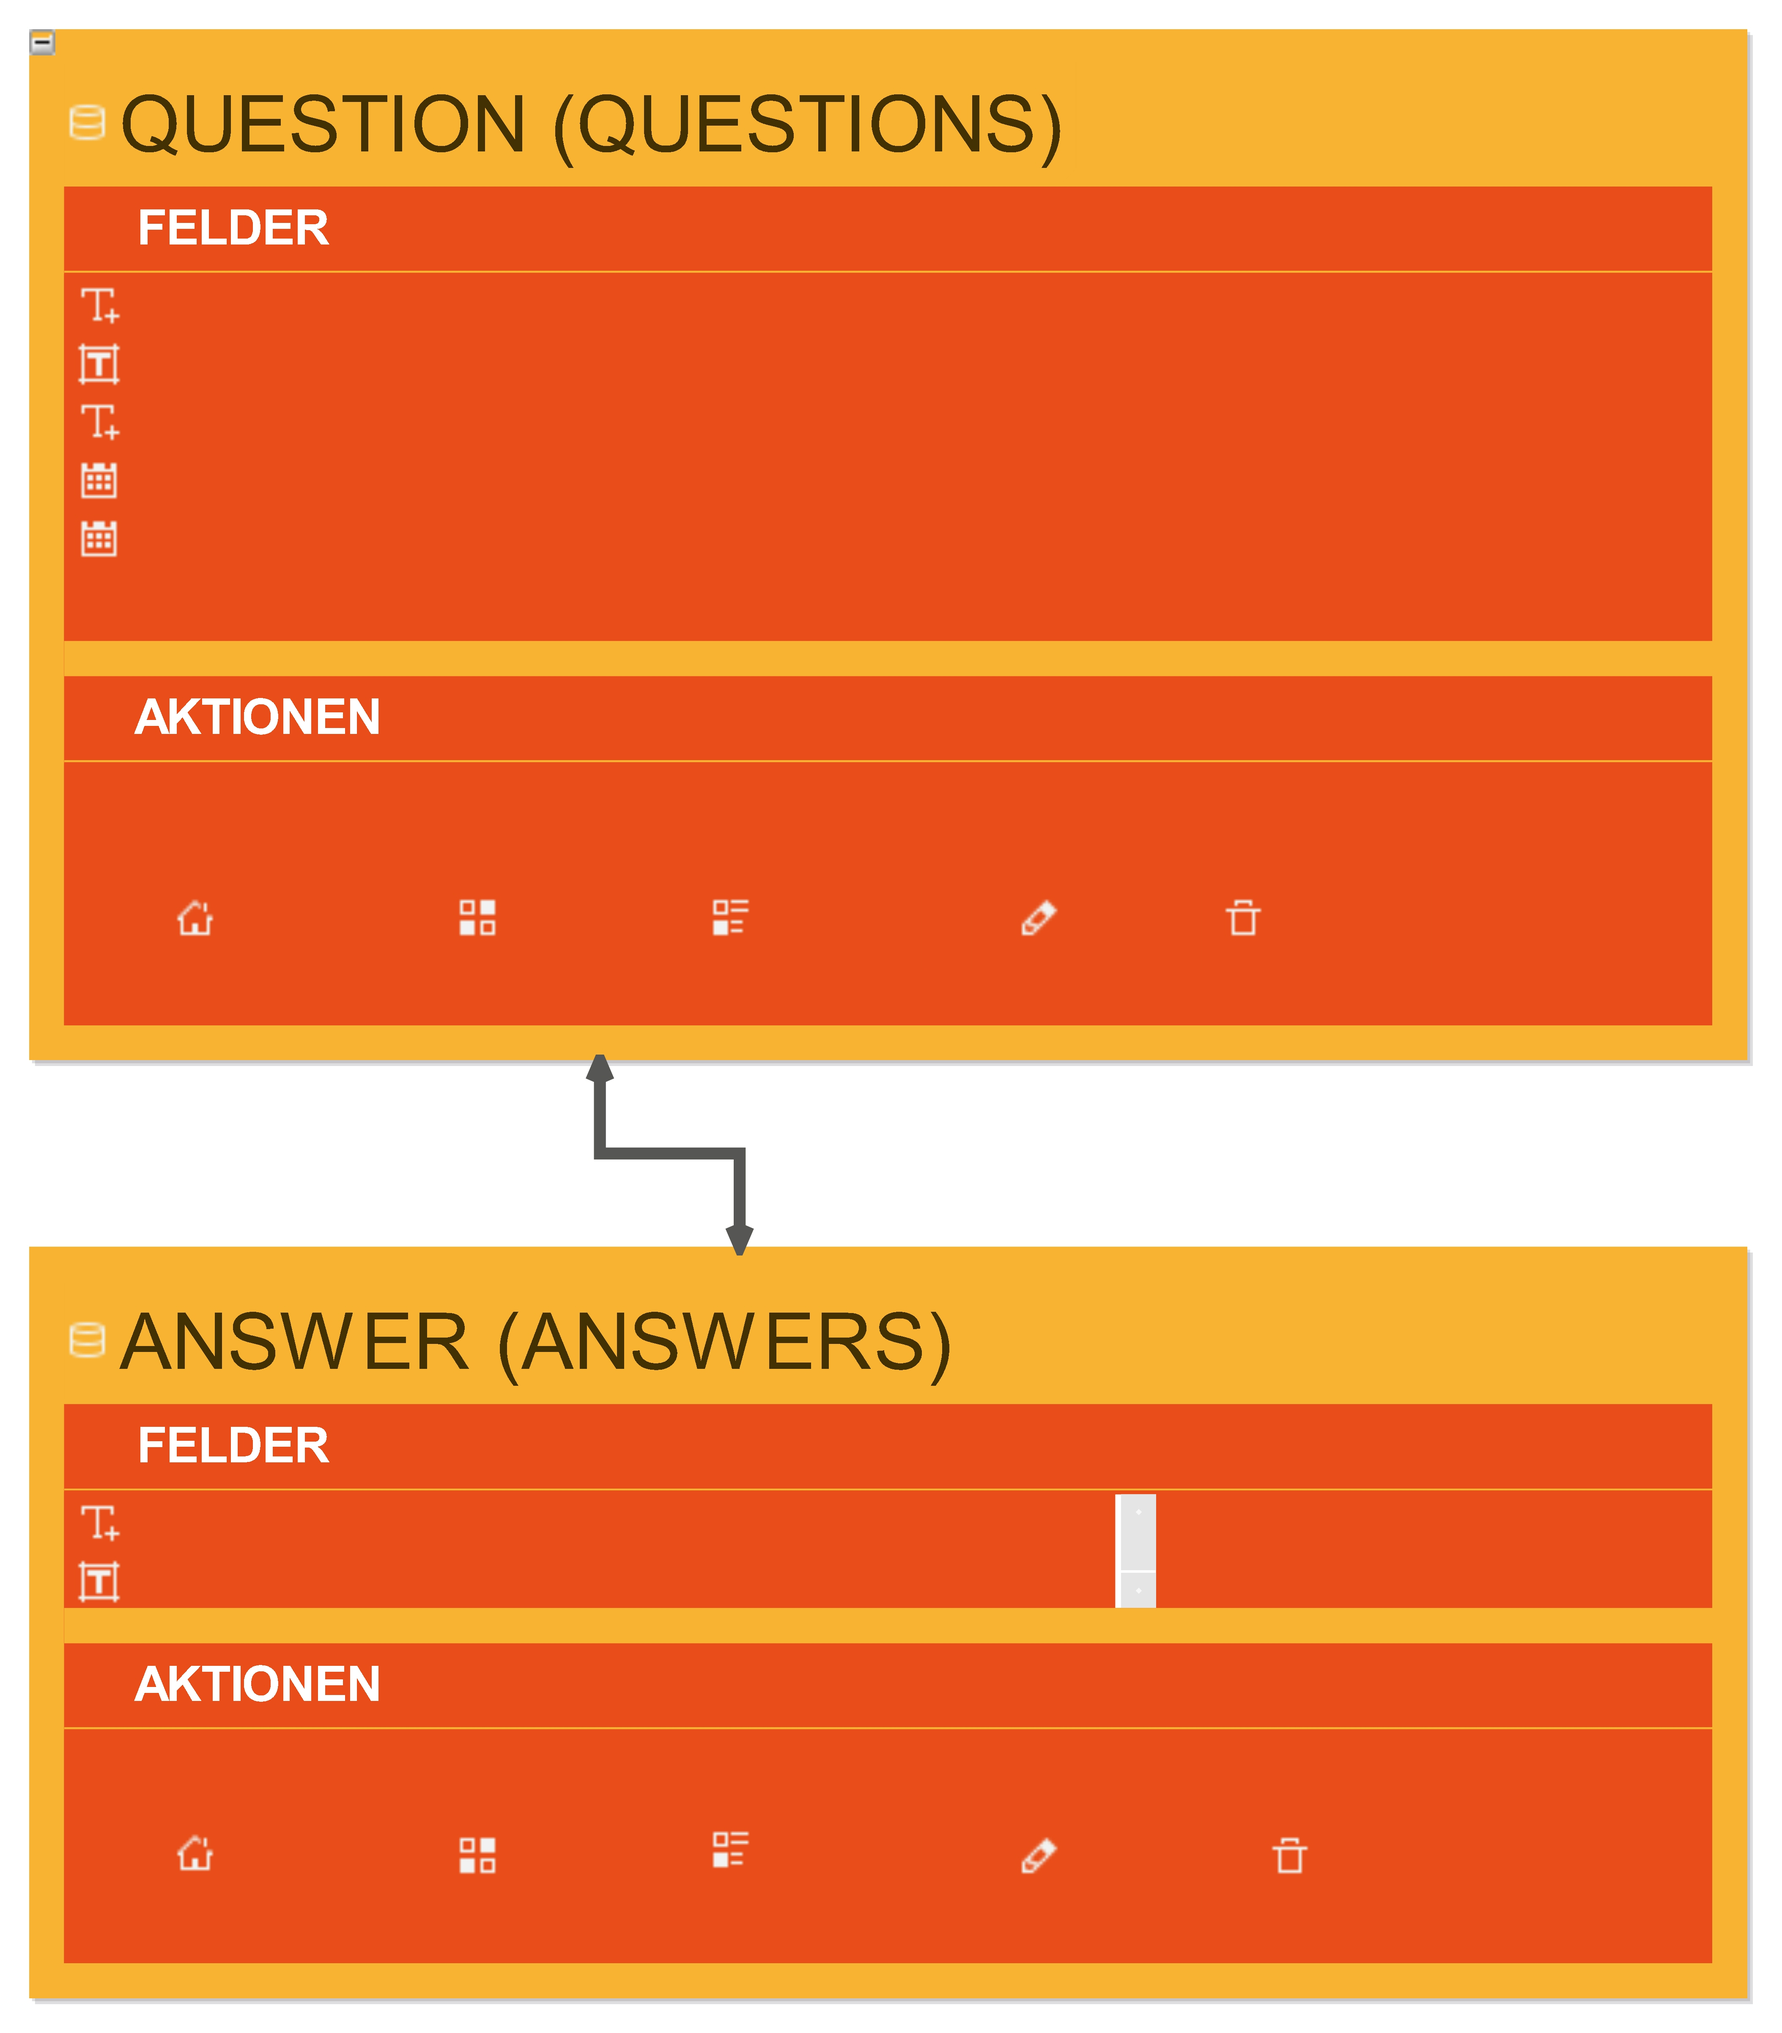
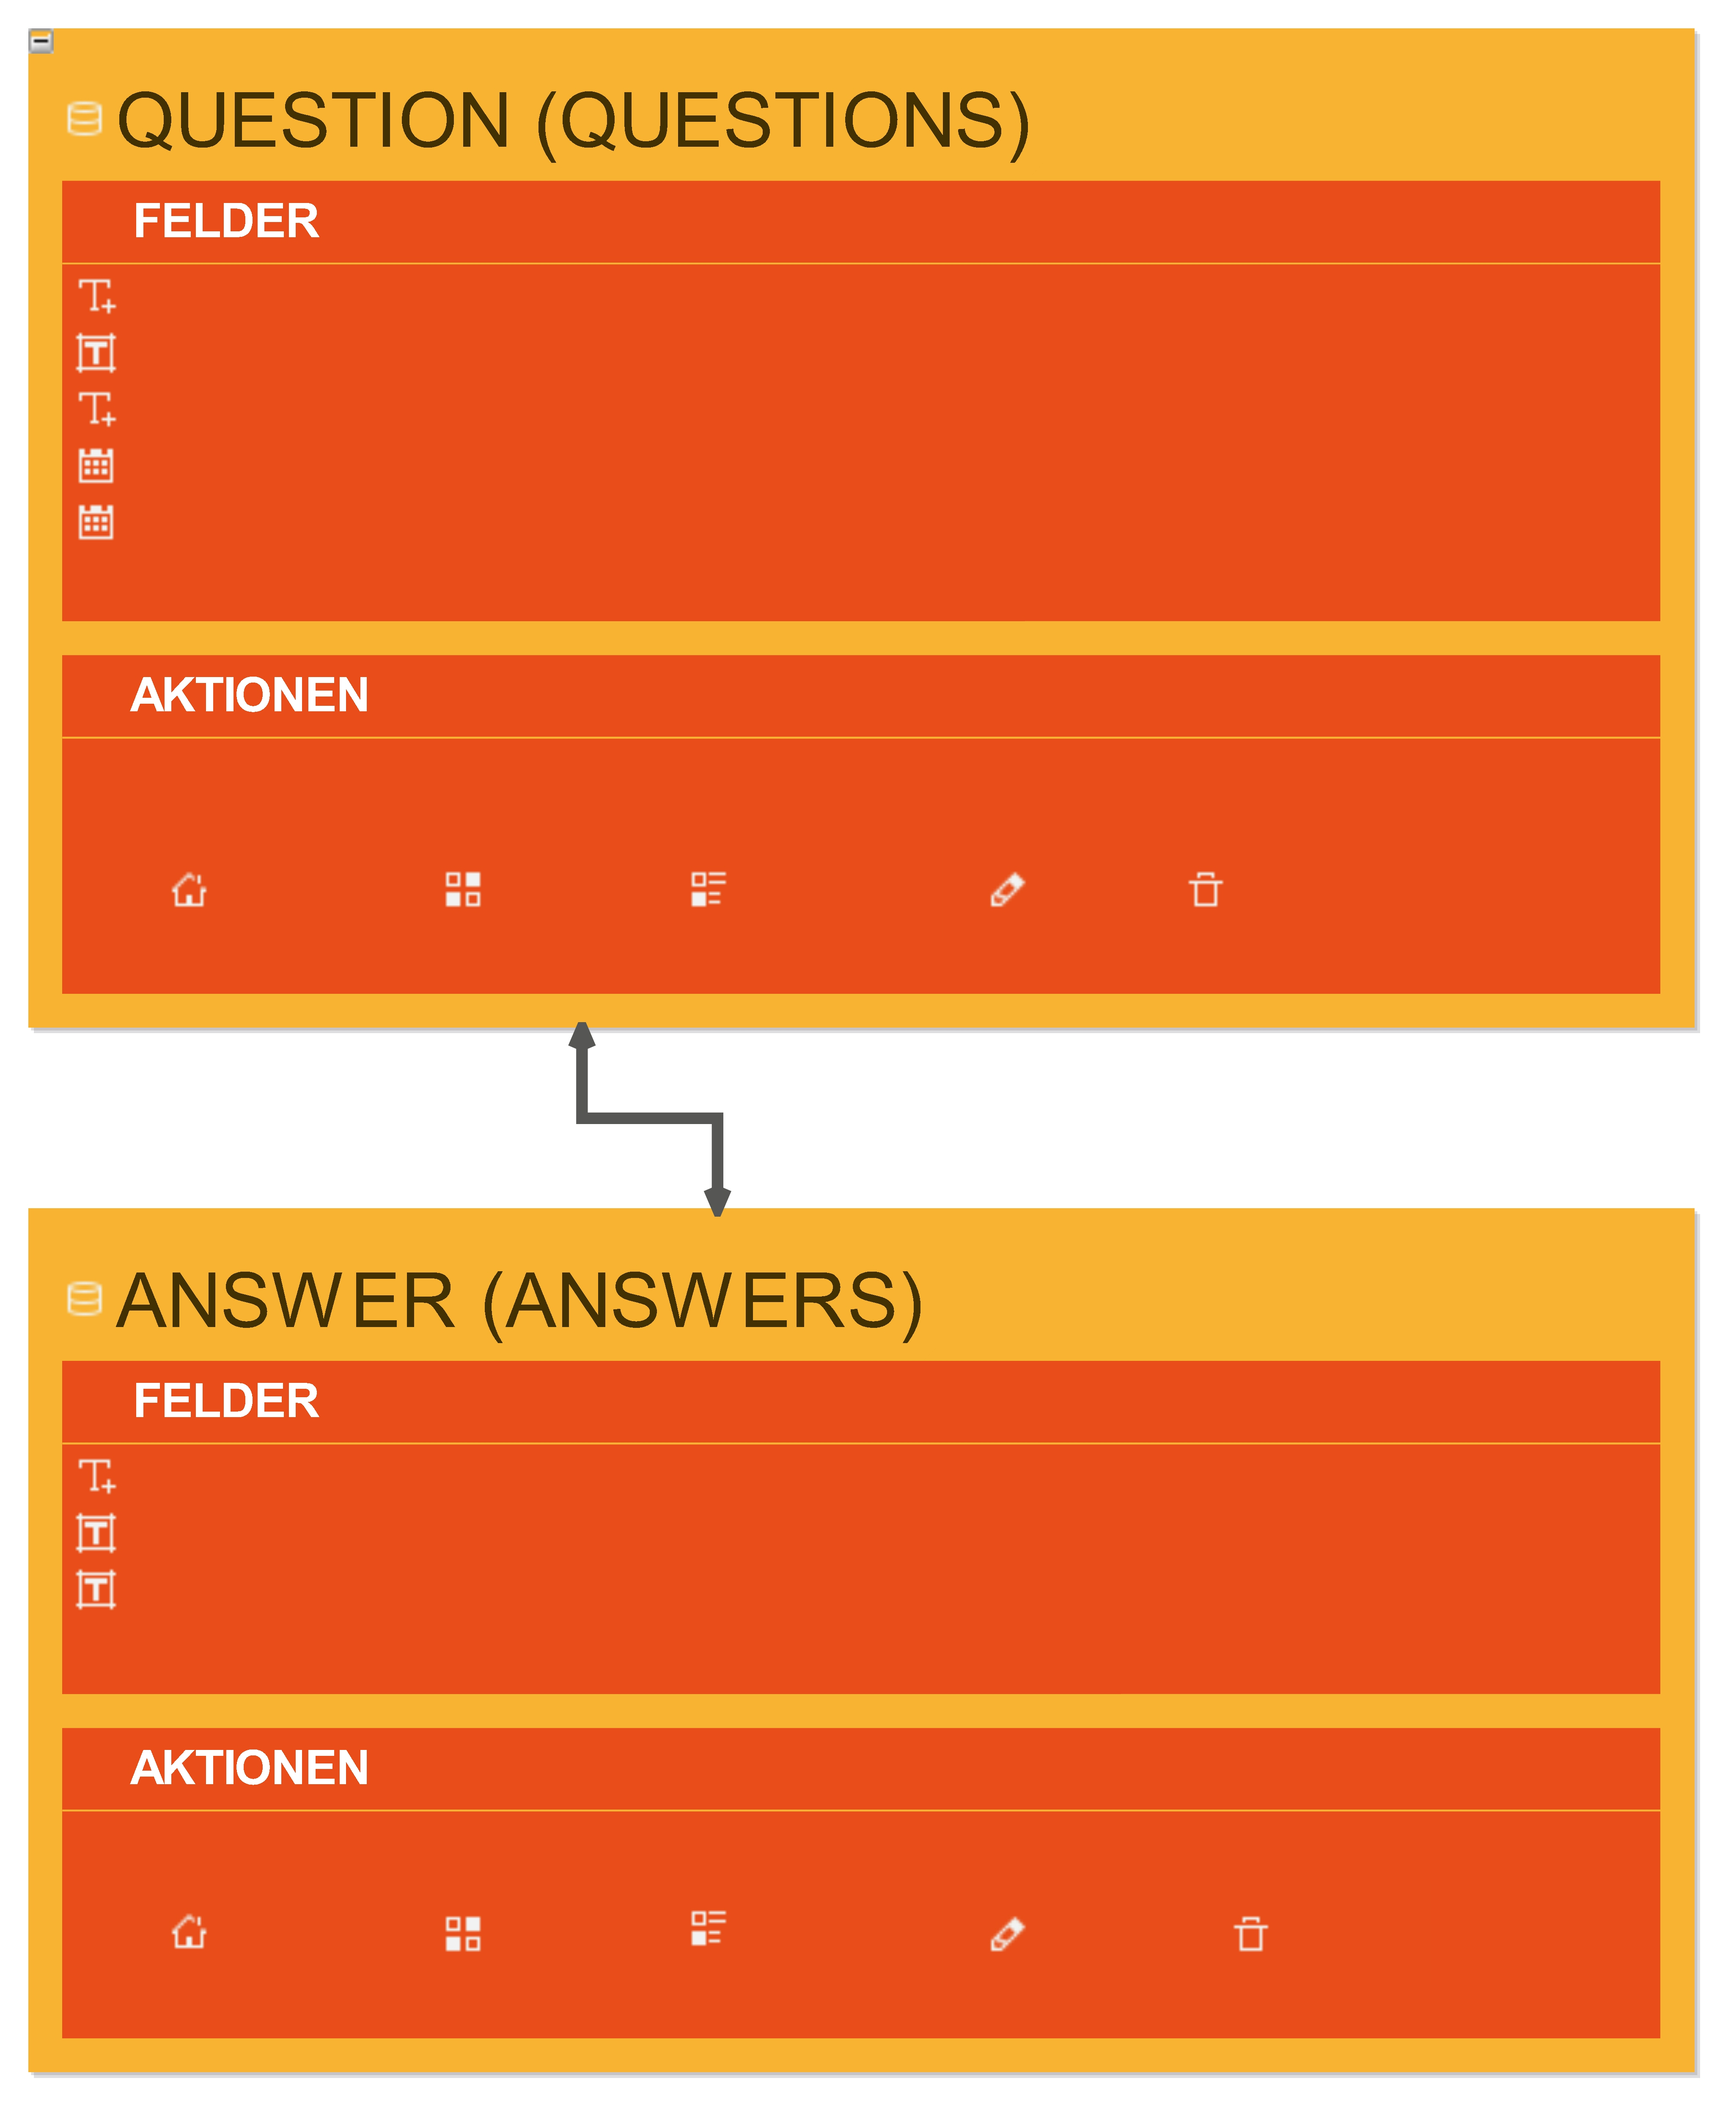
spam protect

diff --git a/MU/YourAnswersModule/Resources/docs/model/complexity_de.html b/MU/YourAnswersModule/Resources/docs/model/complexity_de.html
@@ -136,7 +136,7 @@
                             <tbody>
                                 <tr>
                                     <th id="hInternalAnswer" scope="row" headers="hInternalTable">Answer</th>
-                                    <td headers="hInternalAnswer hInternalColumnAmount" class="text-right">8</td>
+                                    <td headers="hInternalAnswer hInternalColumnAmount" class="text-right">9</td>
                                     <td headers="hInternalAnswer hInternalRelationAmount" class="text-right">1</td>
                                     <td headers="hInternalAnswer hInternalComplexity">Mittel</td>
                                 </tr>
@@ -222,7 +222,7 @@
                             <tbody>
                                 <tr>
                                     <th id="hInputAnswer" scope="row" headers="hInputTable">Answer</th>
-                                    <td headers="hInputAnswer hInputFieldAmount" class="text-right">8</td>
+                                    <td headers="hInputAnswer hInputFieldAmount" class="text-right">9</td>
                                     <td headers="hInputAnswer hInputRelationAmount" class="text-right">1</td>
                                     <td headers="hInputAnswer hInputComplexity">Mittel</td>
                                 </tr>
@@ -283,7 +283,7 @@
                             <tbody>
                                 <tr>
                                     <th id="hInputAnswer" scope="row" headers="hInputTable">Answer</th>
-                                    <td headers="hInputAnswer hInputViewAmount" class="text-right">8</td>
+                                    <td headers="hInputAnswer hInputViewAmount" class="text-right">9</td>
                                     <td headers="hInputAnswer hInputRelationAmount" class="text-right">1</td>
                                     <td headers="hInputAnswer hInputComplexity">Niedrig</td>
                                 </tr>

diff --git a/MU/YourAnswersModule/Resources/docs/model/complexity_en.html b/MU/YourAnswersModule/Resources/docs/model/complexity_en.html
@@ -136,7 +136,7 @@
                             <tbody>
                                 <tr>
                                     <th id="hInternalAnswer" scope="row" headers="hInternalTable">Answer</th>
-                                    <td headers="hInternalAnswer hInternalColumnAmount" class="text-right">8</td>
+                                    <td headers="hInternalAnswer hInternalColumnAmount" class="text-right">9</td>
                                     <td headers="hInternalAnswer hInternalRelationAmount" class="text-right">1</td>
                                     <td headers="hInternalAnswer hInternalComplexity">Medium</td>
                                 </tr>
@@ -222,7 +222,7 @@
                             <tbody>
                                 <tr>
                                     <th id="hInputAnswer" scope="row" headers="hInputTable">Answer</th>
-                                    <td headers="hInputAnswer hInputFieldAmount" class="text-right">8</td>
+                                    <td headers="hInputAnswer hInputFieldAmount" class="text-right">9</td>
                                     <td headers="hInputAnswer hInputRelationAmount" class="text-right">1</td>
                                     <td headers="hInputAnswer hInputComplexity">Medium</td>
                                 </tr>
@@ -283,7 +283,7 @@
                             <tbody>
                                 <tr>
                                     <th id="hInputAnswer" scope="row" headers="hInputTable">Answer</th>
-                                    <td headers="hInputAnswer hInputViewAmount" class="text-right">8</td>
+                                    <td headers="hInputAnswer hInputViewAmount" class="text-right">9</td>
                                     <td headers="hInputAnswer hInputRelationAmount" class="text-right">1</td>
                                     <td headers="hInputAnswer hInputComplexity">Low</td>
                                 </tr>

diff --git a/MU/YourAnswersModule/Resources/docs/model/structure_en.html b/MU/YourAnswersModule/Resources/docs/model/structure_en.html
@@ -240,6 +240,23 @@
                     </ul>
                 </td>
             </tr>
+            <tr>
+                <th id="hEntityAnswerFieldContent" scope="row" headers="hEntityAnswerFieldName">Content</th>
+                <td headers="hEntityAnswerFieldContent hEntityAnswerFieldType">Text</td>
+                <td headers="hEntityAnswerFieldContent hEntityAnswerFieldMandatory">false</td>
+                <td headers="hEntityAnswerFieldContent hEntityAnswerFieldDefault"></td>
+                <td headers="hEntityAnswerFieldContent hEntityAnswerFieldDisplayType">ALL</td>
+                <td headers="hEntityAnswerFieldContent hEntityAnswerFieldConstraints">
+                    <ul>
+                        <li>Has a length of 2000 chars.</li>
+                    </ul>
+                </td>
+                <td headers="hEntityAnswerFieldContent hEntityAnswerFieldRemarks">
+                    <ul>
+                        <li>This field is not unique and allows no null values.</li>
+                    </ul>
+                </td>
+            </tr>
         </tbody>
     </table>
 </div>

diff --git a/MU/YourAnswersModule/Entity/Base/AbstractAnswerEntity.php b/MU/YourAnswersModule/Entity/Base/AbstractAnswerEntity.php
@@ -74,6 +74,14 @@ abstract class AbstractAnswerEntity extends EntityAccess
      */
     protected $textOfAnswer = '';
     
+    /**
+     * @ORM\Column(type="text", length=2000)
+     * @Assert\NotNull()
+     * @Assert\Length(min="0", max="2000")
+     * @var text $content
+     */
+    protected $content = '';
+    
     
     /**
      * Bidirectional - Many answers [answers] are linked by one question [question] (OWNING SIDE).
@@ -215,6 +223,30 @@ abstract class AbstractAnswerEntity extends EntityAccess
     {
         if ($this->textOfAnswer !== $textOfAnswer) {
             $this->textOfAnswer = isset($textOfAnswer) ? $textOfAnswer : '';
+        }
+    }
+    
+    /**
+     * Returns the content.
+     *
+     * @return text
+     */
+    public function getContent()
+    {
+        return $this->content;
+    }
+    
+    /**
+     * Sets the content.
+     *
+     * @param text $content
+     *
+     * @return void
+     */
+    public function setContent($content)
+    {
+        if ($this->content !== $content) {
+            $this->content = isset($content) ? $content : '';
         }
     }
     

diff --git a/MU/YourAnswersModule/Form/Type/Base/AbstractAnswerType.php b/MU/YourAnswersModule/Form/Type/Base/AbstractAnswerType.php
@@ -146,6 +146,18 @@ abstract class AbstractAnswerType extends AbstractType
             ],
             'required' => true,
         ]);
+        
+        $builder->add('content', TextareaType::class, [
+            'label' => $this->__('Content') . ':',
+            'help' => $this->__f('Note: this value must not exceed %amount% characters.', ['%amount%' => 2000]),
+            'empty_data' => '',
+            'attr' => [
+                'maxlength' => 2000,
+                'class' => '',
+                'title' => $this->__('Enter the content of the answer.')
+            ],
+            'required' => false,
+        ]);
     }
 
     /**

diff --git a/MU/YourAnswersModule/Helper/Base/AbstractCollectionFilterHelper.php b/MU/YourAnswersModule/Helper/Base/AbstractCollectionFilterHelper.php
@@ -421,6 +421,8 @@ abstract class AbstractCollectionFilterHelper
             $parameters['searchName'] = '%' . $fragment . '%';
             $filters[] = 'tbl.textOfAnswer LIKE :searchTextOfAnswer';
             $parameters['searchTextOfAnswer'] = '%' . $fragment . '%';
+            $filters[] = 'tbl.content LIKE :searchContent';
+            $parameters['searchContent'] = '%' . $fragment . '%';
         }
         if ($objectType == 'question') {
             $filters[] = 'tbl.workflowState = :searchWorkflowState';

diff --git a/MU/YourAnswersModule/Form/Type/QuickNavigation/Base/AbstractAnswerQuickNavType.php b/MU/YourAnswersModule/Form/Type/QuickNavigation/Base/AbstractAnswerQuickNavType.php
@@ -220,6 +220,7 @@ abstract class AbstractAnswerQuickNavType extends AbstractType
                     $this->__('Workflow state') => 'workflowState',
                     $this->__('Name') => 'name',
                     $this->__('Text of answer') => 'textOfAnswer',
+                    $this->__('Content') => 'content',
                     $this->__('Creation date') => 'createdDate',
                     $this->__('Creator') => 'createdBy',
                     $this->__('Update date') => 'updatedDate',

diff --git a/MU/YourAnswersModule/Form/Type/Finder/Base/AbstractAnswerFinderType.php b/MU/YourAnswersModule/Form/Type/Finder/Base/AbstractAnswerFinderType.php
@@ -133,6 +133,7 @@ abstract class AbstractAnswerFinderType extends AbstractType
                     $this->__('Workflow state') => 'workflowState',
                     $this->__('Name') => 'name',
                     $this->__('Text of answer') => 'textOfAnswer',
+                    $this->__('Content') => 'content',
                     $this->__('Creation date') => 'createdDate',
                     $this->__('Creator') => 'createdBy',
                     $this->__('Update date') => 'updatedDate',

diff --git a/MU/YourAnswersModule/Entity/Base/AbstractQuestionEntity.php b/MU/YourAnswersModule/Entity/Base/AbstractQuestionEntity.php
@@ -118,7 +118,7 @@ abstract class AbstractQuestionEntity extends EntityAccess implements Translatab
      *
      * @ORM\OneToMany(targetEntity="MU\YourAnswersModule\Entity\AnswerEntity", mappedBy="question")
      * @ORM\JoinTable(name="mu_youranswers_questionanswers")
-     * @ORM\OrderBy({"createdDate" = "ASC"})
+     * @ORM\OrderBy({"createdDate" = "DESC"})
      * @var \MU\YourAnswersModule\Entity\AnswerEntity[] $answers
      */
     protected $answers = null;

diff --git a/MU/YourAnswersModule/Helper/Base/AbstractSearchHelper.php b/MU/YourAnswersModule/Helper/Base/AbstractSearchHelper.php
@@ -167,6 +167,7 @@ abstract class AbstractSearchHelper implements SearchableInterface
                     $whereArray[] = 'tbl.workflowState';
                     $whereArray[] = 'tbl.name';
                     $whereArray[] = 'tbl.textOfAnswer';
+                    $whereArray[] = 'tbl.content';
                     break;
                 case 'question':
                     $whereArray[] = 'tbl.workflowState';

diff --git a/MU/YourAnswersModule/Base/bootstrap.php b/MU/YourAnswersModule/Base/bootstrap.php
@@ -7,7 +7,7 @@
  * @author Michael Ueberschaer <info@homepages-mit-zikula.de>.
  * @link https://homepages-mit-zikula.de
  * @link https://ziku.la
- * @version Generated by ModuleStudio 1.4.0 (https://modulestudio.de) at Sun Oct 14 10:56:02 CEST 2018.
+ * @version Generated by ModuleStudio 1.4.0 (https://modulestudio.de) at Sun Oct 14 11:22:33 CEST 2018.
  */
 
 /**
